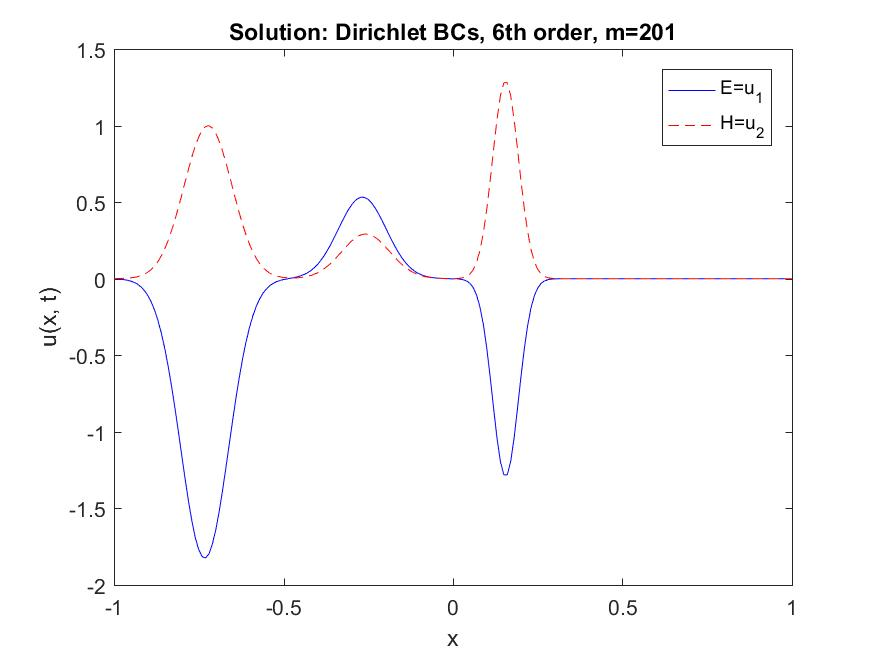
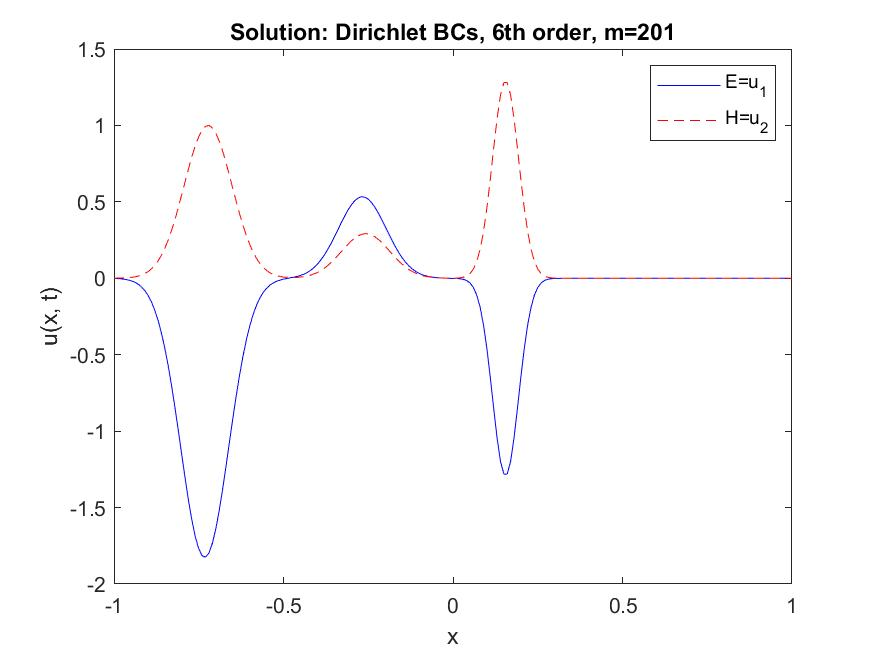
added analytic solution for interface simulation

diff --git a/FDM_Assign1/Code/RunPart2.m b/FDM_Assign1/Code/RunPart2.m
@@ -11,7 +11,7 @@ C1 = [permittivity1 0; 0 permeability];
 C2 = [permittivity2 0; 0 permeability];
 
 
-gridDim = 201;
+gridDim = 202;
 
 %% Calculate convergence rate
 %q2 = CalculateConvergence(C, A, @MakeSBP2Operators, @MakeBoundariesDBC)
@@ -28,6 +28,31 @@ x_l = -1;
 x_r = 1;
 x = linspace(x_l, x_r, gridDim)';
 
+refractiveIndex1 = sqrt(permittivity1);
+refractiveIndex2 = sqrt(permittivity2);
+
+Tanalytic = abs(2*refractiveIndex1/(refractiveIndex1+refractiveIndex2))
+Ranalytic = abs((refractiveIndex1-refractiveIndex2)/(refractiveIndex1+refractiveIndex2))
+
+c1 = 1/refractiveIndex1;
+c2 = 1/refractiveIndex2;
+xWaveOriginal = -1 + (c1*endT - 0.5);
+xWaveReflected = 0 - (c1*endT - 0.5);
+xWaveTransmitted = 0 + (endT - 0.5/c1)*c2;
+
+% analytic solution for t=0.42
+rr = 0.1;
+x = linspace(x_l, x_r, gridDim)';
+[u1o, u2o] = InitialData(x-xWaveOriginal, rr);
+[u1t, u2t] = InitialData(x-xWaveTransmitted, rr*c2/c1);
+[u1r, u2r] = InitialData(x-xWaveReflected, rr);
+u1end = 0.5*u2o + 0.5*Ranalytic*u2r + 0.5*Tanalytic*u2t/refractiveIndex1;
+u2end = -0.5*u2o/refractiveIndex1 + 0.5*Ranalytic*u2r/refractiveIndex1 + -0.5*Tanalytic*u2t/refractiveIndex1;
+
+figure;
+plot(x, u1end, x, u2end);
+
+
 [vl, vr] = RunSimulationInterface(C1, C2, A, gridDim, deltaT, endT, x_l, x_r, @MakeSBP6Operators, @MakeBoundariesDBC);
 gridDimL = length(vl)/2;
 gridDimR = length(vr)/2;
@@ -42,11 +67,6 @@ title('Solution: Dirichlet BCs, 6th order, m=201');
 print('FDM_Ass1_DBC_6thOrder','-djpeg')
 
 
-refrectingIndex1 = sqrt(permittivity1);
-refrectingIndex2 = sqrt(permittivity2);
-
-Tanalytic = 2*refrectingIndex1/(refrectingIndex1+refrectingIndex2)
-Ranalytic = (refrectingIndex1-refrectingIndex2)/(refrectingIndex1+refrectingIndex2)
 
 amplitudeOriginal = -min(vl(1:gridDimL));
 amplitudeReflected = max(vl(1:gridDimL));
@@ -54,6 +74,12 @@ amplitudeTransmitted = -min(vr(1:gridDimR));
 
 Tnumeric = amplitudeTransmitted/amplitudeOriginal
 Rnumeric = amplitudeReflected/amplitudeOriginal
+
+
+
+
+
+
 
 
 
